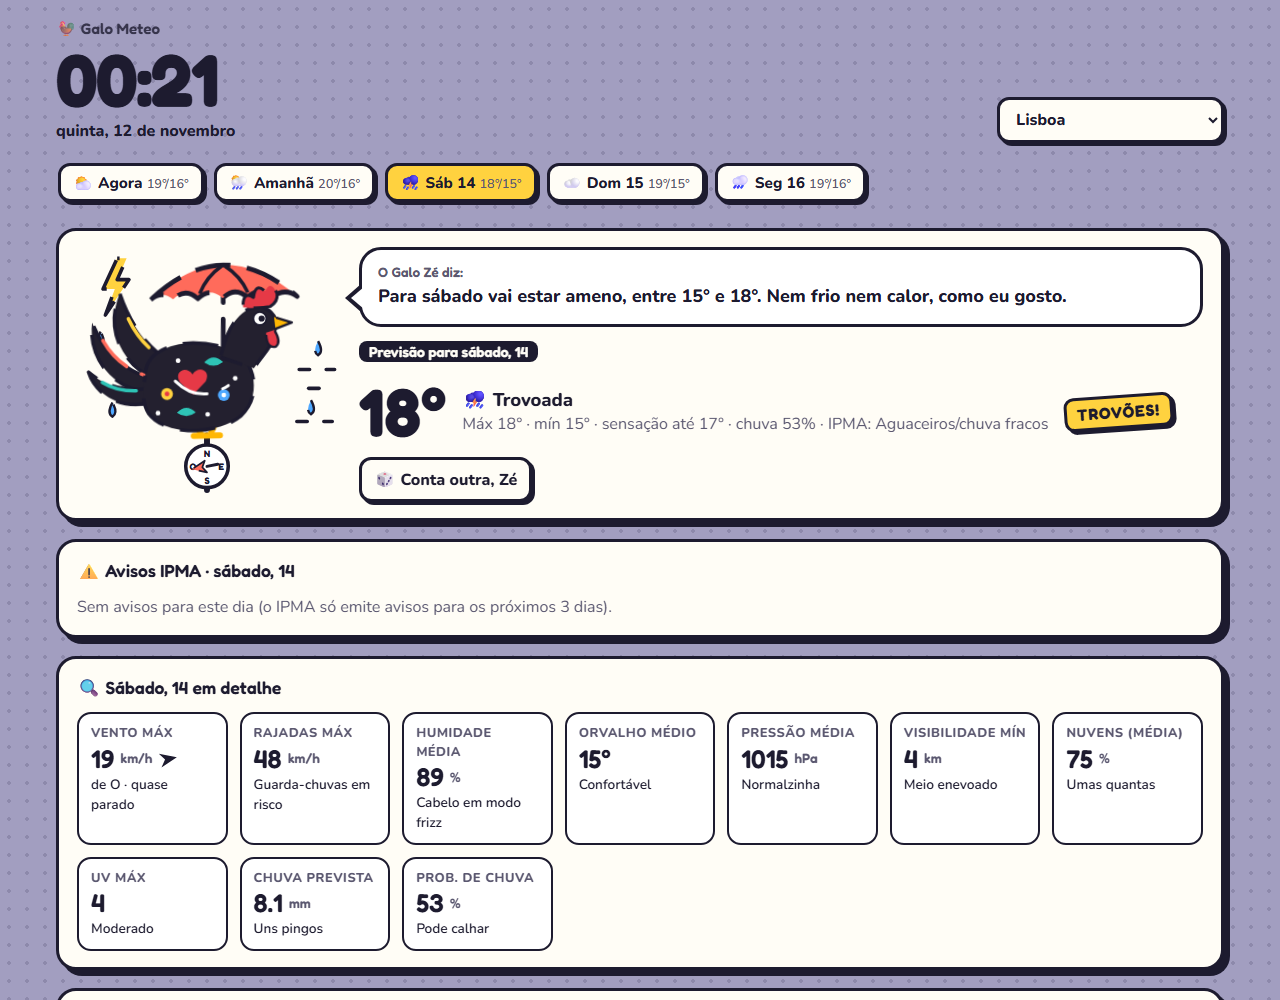
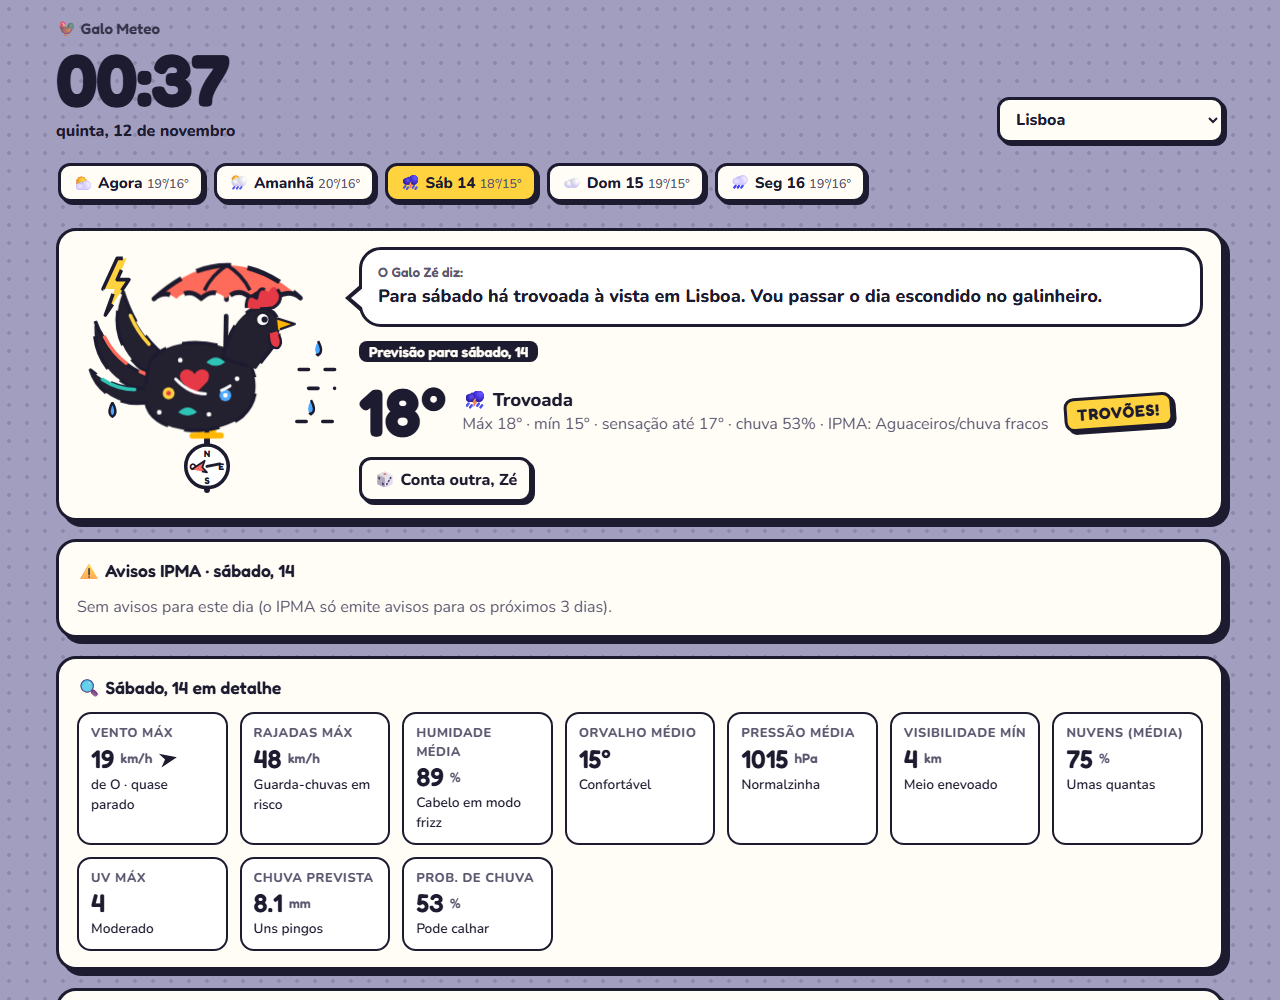
Update weather-related messages for improved clarity and organization

Changed region(s): [[0.0625, 0.248, 0.25, 0.434], [0.375, 0.279, 0.875, 0.31], [0.125, 0.062, 0.1875, 0.124]]

diff --git a/main.py b/main.py
@@ -600,6 +600,9 @@ function desenharChips() {
          `${ic} ${nome} <small>${R(d.temperature_2m_max[k])}°/${R(d.temperature_2m_min[k])}°</small></button>`;
   }
   $("chips").innerHTML = s;
+  const barra = $("chips"), on = barra.querySelector(".chip.on");   // mantém o dia escolhido visível
+  if (on) barra.scrollLeft += on.getBoundingClientRect().left - barra.getBoundingClientRect().left -
+                             (barra.clientWidth - on.offsetWidth) / 2;
 }
 
 /* ---------- Modos: fundo, carimbo e acessórios do Galo Zé ---------- */
@@ -898,14 +901,14 @@ function desenharAvisos(v) {
 }
 
 /* ---------- O Galo Zé fala (piadas com números reais) ---------- */
-function piadasAgora(v, L) {
+function piadasAgora(v, U, L) {      // U = mau tempo (dito primeiro); L = o resto
   const c = v.c, d = tempo.daily, t = R(c.temperature_2m), s = R(v.s), w = c.weather_code;
-  if (w >= 95) L.push(`Trovoada em ${local.local}! Até eu, que canto às 6 da manhã, fico caladinho.`);
-  if (ehNeve(w)) L.push(`Neve com ${t}°?! Tenho as patas geladas e as penas em pé.`);
-  if (v.chuva) L.push(`Está a chover (${c.precipitation} mm agora). Galo molhado vira canja: leva guarda-chuva!`);
+  if (w >= 95) U.push(`Trovoada em ${local.local}! Até eu, que canto às 6 da manhã, fico caladinho.`);
+  if (ehNeve(w)) U.push(`Neve com ${t}°?! Tenho as patas geladas e as penas em pé.`);
+  if (v.chuva) U.push(`Está a chover (${c.precipitation} mm agora). Galo molhado vira canja: leva guarda-chuva!`);
   else if (v.pmax >= 50) L.push(`${v.pmax}% de probabilidade de chuva nas próximas 6 horas. Depois não digas que não avisei!`);
   if (ehNevoa(w)) L.push(`Nevoeiro em ${local.local}… se calhar é hoje que o D. Sebastião volta.`);
-  if (c.wind_gusts_10m >= 50) L.push(`Rajadas de ${R(c.wind_gusts_10m)} km/h! Como bom cata-vento, já dei três voltas e estou tonto.`);
+  if (c.wind_gusts_10m >= 50) U.push(`Rajadas de ${R(c.wind_gusts_10m)} km/h! Como bom cata-vento, já dei três voltas e estou tonto.`);
   if (c.wind_speed_10m >= 8 && c.wind_gusts_10m < 50)
     L.push(`Vento de ${rumo(c.wind_direction_10m)} a ${R(c.wind_speed_10m)} km/h. Sei disto porque sou, literalmente, um cata-vento.`);
   if (s >= 32) L.push(`Sensação de ${s}°. Mais um bocadinho e passo de galo a frango de churrasco.`);
@@ -922,15 +925,15 @@ function piadasAgora(v, L) {
   if (v.tmax - v.tmin >= 12) L.push(`Hoje vai de ${R(v.tmin)}° a ${R(v.tmax)}°. Veste-te à cebola: camadas!`);
 }
 
-function piadasDia(v, L) {
+function piadasDia(v, U, L) {
   const c = v.c, k = v.k, t = R(v.tmax), n = R(v.tmin), s = R(v.s), w = c.weather_code;
   const q = k === 1 ? "amanhã" : "para " + diaNome(k), Q = cap(q);
-  if (w >= 95) L.push(`${Q} há trovoada à vista em ${local.local}. Vou passar o dia escondido no galinheiro.`);
-  if (ehNeve(w)) L.push(`Neve prevista ${q}?! Vou já tirar o gorro da gaveta.`);
-  if (v.chuva) L.push(`${Q} vai chover (${c.precipitation} mm previstos, ${v.pmax}% de probabilidade). Galo molhado vira canja: guarda-chuva na mochila!`);
+  if (w >= 95) U.push(`${Q} há trovoada à vista em ${local.local}. Vou passar o dia escondido no galinheiro.`);
+  if (ehNeve(w)) U.push(`Neve prevista ${q}?! Vou já tirar o gorro da gaveta.`);
+  if (v.chuva) U.push(`${Q} vai chover (${c.precipitation} mm previstos, ${v.pmax}% de probabilidade). Galo molhado vira canja: guarda-chuva na mochila!`);
   else if (v.pmax >= 40) L.push(`${Q} há ${v.pmax}% de probabilidade de chuva. Depois não digas que não avisei!`);
   if (ehNevoa(w)) L.push(`${Q} há nevoeiro previsto em ${local.local}… será desta que o D. Sebastião volta?`);
-  if (c.wind_gusts_10m >= 50) L.push(`${Q} as rajadas podem chegar aos ${R(c.wind_gusts_10m)} km/h. Já estou a treinar piruetas de cata-vento.`);
+  if (c.wind_gusts_10m >= 50) U.push(`${Q} as rajadas podem chegar aos ${R(c.wind_gusts_10m)} km/h. Já estou a treinar piruetas de cata-vento.`);
   if (s >= 32) L.push(`Máxima de ${t}° ${q} (sensação de ${s}°). Vou passar de galo a frango de churrasco.`);
   else if (s >= 26) L.push(`${Q} sobe até aos ${t}°. Cheira a praia e a bola de Berlim!`);
   else if (s >= 20) L.push(`${t}° de máxima ${q}. Tempo perfeito para cantar à janela.`);
@@ -944,19 +947,21 @@ function piadasDia(v, L) {
 }
 
 function falar(v) {
-  const L = [];
+  const A = [], U = [], L = [];        // avisos, mau tempo, o resto (por esta ordem de prioridade)
   if (avisosAtivos.length) {
     const w = avisosAtivos[0];
-    L.push(`Agora a sério: há aviso ${(NIVEL[w.awarenessLevelID] || "").toLowerCase()} de ${w.awarenessTypeName.toLowerCase()} ` +
+    A.push(`Agora a sério: há aviso ${(NIVEL[w.awarenessLevelID] || "").toLowerCase()} de ${w.awarenessTypeName.toLowerCase()} ` +
            (v && !v.hoje ? `de ${fmt(w.startTime)} ` : "") + `até ${fmt(w.endTime)}. Tem cuidado!`);
   }
-  if (v) (v.hoje ? piadasAgora : piadasDia)(v, L);
+  if (v) (v.hoje ? piadasAgora : piadasDia)(v, U, L);
   const a = arDe(v || {k: 0, hoje: true});
   if (a && a.european_aqi > 60)
     L.push(v && !v.hoje ? `Qualidade do ar prevista até ${R(a.european_aqi)} nesse dia. Corre só atrás do autocarro.`
                         : `Índice de qualidade do ar a ${R(a.european_aqi)}. Hoje corre só atrás do autocarro.`);
-  if (!L.length) L.push("Hoje não tenho dados nem piadas. Volta daqui a pouco!");
-  piadas = L; iPiada = avisosAtivos.length ? 0 : Math.floor(Math.random() * L.length);
+  piadas = [...A, ...U, ...L];
+  if (!piadas.length) piadas.push("Hoje não tenho dados nem piadas. Volta daqui a pouco!");
+  // Com avisos ou mau tempo, o Galo Zé começa pelo mais importante; senão, escolhe uma ao acaso.
+  iPiada = A.length || U.length ? 0 : Math.floor(Math.random() * piadas.length);
   $("fala").textContent = piadas[iPiada];
 }
 
